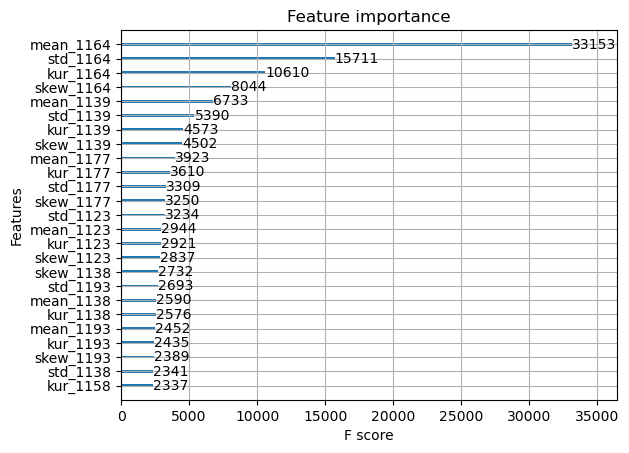
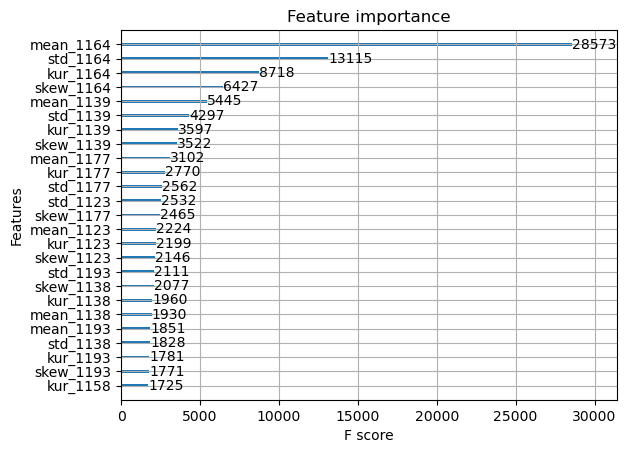
Send images

diff --git a/make_data.py b/make_data.py
@@ -6,7 +6,7 @@ from multiprocessing import pool
 import pickle
 
 net_info = pd.read_csv("./net_info.csv")
-starttime = UTCDateTime(2016, 11, 5)
+starttime = UTCDateTime(2016, 11, 6)
 
 def make_features(X):
     
@@ -29,6 +29,7 @@ def parallelize(df, func, n_cores):
     return X
 
 data_loc = "/mnt/readynas5/cgoerzen/tc2me/wfs/"
+output_dir = "/mnt/readynas5/cgoerzen/earthquake_prediction/data/"
 
 #for sta in net_info.sta:
 # st = read(data_loc + "2016/11/05/20161105.5B." + str(sta) + "..DHZ.mseed")
@@ -56,11 +57,11 @@ for i in range(int(max(event_times))):
     if marker_time > event:
         event_idx +=1
 
-pickle.dump(time_to_failure, open("./data/y.p", "wb"))
+pickle.dump(time_to_failure, open(output_dir + starttime.strftime("%Y%m%d") + "_y.p", "wb"))
 
 for sta in net_info.sta:
     print(sta)
-    st = read(data_loc + "2016/11/05/20161105.5B." + str(sta) + "..DHZ.mseed")
+    st = read(data_loc + starttime.strftime("%Y/%m/%d/%Y%m%d")+ ".5B." + str(sta) + "..DHZ.mseed")
     split_data = np.array_split(st[0].data, len(st[0].data) / int(sr))
 
     X = pd.DataFrame()
@@ -84,5 +85,5 @@ for sta in net_info.sta:
 
         ct += 1
 
-    pickle.dump(X, open("./data/" + str(sta) + "_X.p", "wb"))
+    pickle.dump(X, open(output_dir + starttime.strftime("%Y%m%d_") + str(sta) + "_X.p", "wb"))
 #pickle.dump(y, open("./data/y.p", "wb"))

diff --git a/train_model.py b/train_model.py
@@ -17,7 +17,7 @@ param = {
     "objective": "reg:squarederror"
 }
 
-steps = 3000
+steps = 1000
 
 model = xgb.train(param, D_train, steps)
 
